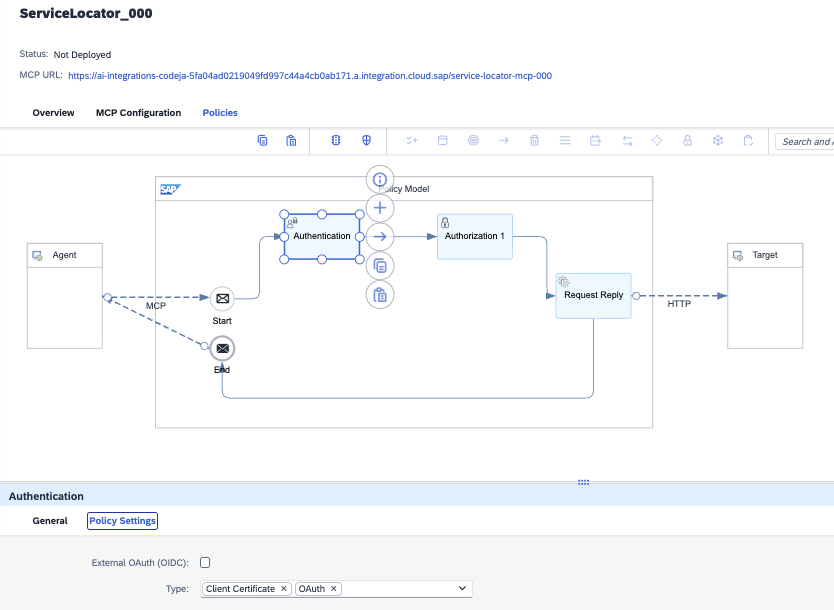
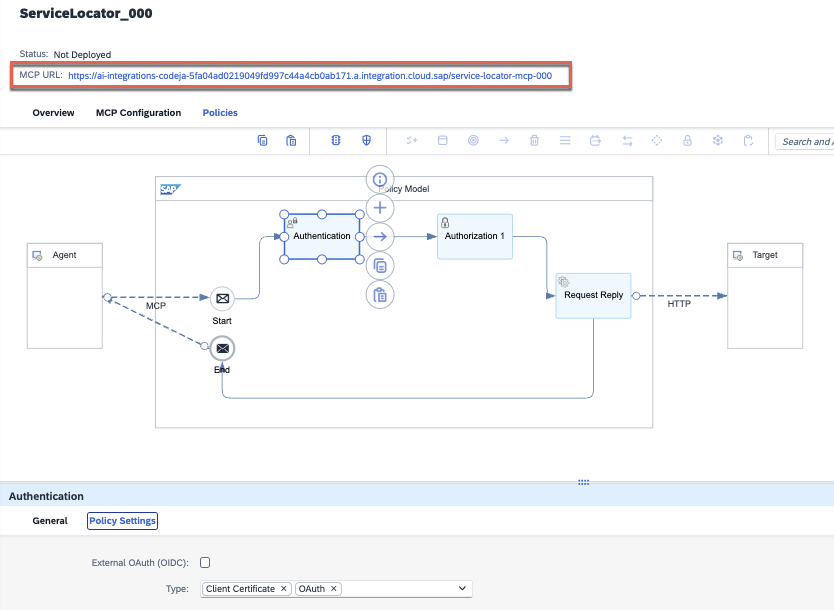
Incorporating Daniel feedback exercise 5

Changed region(s): [[0.0, 0.0934, 0.6859, 0.1557]]

diff --git a/exercises/05-expose-api-mcp-gateway/README.md b/exercises/05-expose-api-mcp-gateway/README.md
@@ -71,7 +71,9 @@ Once you have explored the API, you should be able to answer the following quest
 
 ## Create an MCP server in API Management
 
-Now that we are familiar with the Service Centre Locator API, lets proceed to creating an MCP server based on its OpenAPI specification.
+Now, we want to make available the Service Center Locator data to the agent that we will configure in the next exercise. This will be very helpful for our agent when combining the data from our customer requests with the location of our service centres. To enable this we will create an MCP server to securely expose our Service Center Locator API to agents.
+
+Lets proceed to creating an MCP server based on the Service Center Locator API OpenAPI specification.
 
 👉 Navigate to **Design** > **Integrations and APIs**, select the integration package created in exercise 2. Enter edit mode by choosing the **Edit** button located on the top right hand side of the screen. Then, in the **Artifacts** tab, choose **Add** > **MCP Server**.
 
@@ -150,19 +152,21 @@ Once deployed, the MCP artifact will be listed in the Manage Integration Content
 ![MCP deployed integration content](assets/mcp-deployed-integration-content.png)
 
 > [!IMPORTANT]
-> 👉 Copy the MCP server endpoint URL as we will need it later to test the MCP server.
+> 👉 Copy the MCP server endpoint URL as we will need it later to test the MCP server. If a URL is not displayed in the monitoring, you can also get it from the MCP artifact editor page (highlighted two screenshots above).
 
 The MCP server is now ready but we don't have credentials to be able to call it. Let's create an API product in the Developer Hub to expose the MCP server and provide credentials to call it.
 
 ## Developer Hub
 
-The Developer Hub is a web-based platform that serves as a centralized catalog for APIs, events, and MCP servers, empowering developers to discover, explore, and consume the integration capabilities offered by your organization. Acting as a unified and curated storefront, it consolidates APIs, events, and MCP servers in a single location, enabling application developers to discover, explore, and consume APIs and events, while enabling AI agents to discover and consume MCP servers.
+The Developer Hub is a web-based platform that **serves as a centralized catalog for APIs, events, and MCP servers, empowering developers to discover, explore, and consume the integration capabilities** offered by your organization. Acting as a unified and curated storefront, it consolidates APIs, events, and MCP servers in a single location, enabling application developers to discover, explore, and consume APIs and events, while enabling AI agents to discover and consume MCP servers.
 
 We will now go ahead and create an MCP product in the Developer Hub. After we will subscribe to the product and this will generate credentials that we can use to call the MCP server.
 
 ### Create an MCP product
 
-👉 In the Developer Hub, go to the **Admin Center** and select **Content**.
+👉 Access the Developer Hub, from the main UI of SAP Integration Suite as shown in the previous screenshot (highlighted in 🟣 purple), and go to the **Admin Center** > **Content**.
+
+![Admin Center - Content](assets/admin-center-content.png)
 
 👉 In the **Business Systems** tab, select the Integration Suite available, e.g. *ai-integrations-codejam-2tmfbzpb*. Then, in the **MCP Servers** tab, we will find all the MCP servers available in the Integration Suite. Select the MCP server we just created, e.g. *ServiceLocator_${credentialsObj.alturawebsite.user}*, and choose **Create Product**.
 
@@ -192,6 +196,8 @@ Once published, the product will be in the Developer Hub.
 ![Tools in ServiceLocator](assets/tools-in-servicelocator.png)
 
 ### Subscribe to the AlturaCoffee_${credentialsObj.alturawebsite.user} product
+
+Our product is listed in the Developer Hub but in order to get access to it, we need to subscribe to it first. A subscription will provide us the necessary credentials to authenticate and interact with the MCP server.
 
 👉 In the Developer Hub, navigate to the <dynamic>**AlturaCoffee_${credentialsObj.alturawebsite.user}**</dynamic> product and choose **Subscribe**. In the pop-up dialog, select the application to subscribe to the product and choose **Subscribe** > **Create New Subscription for Agent**.
 
@@ -237,12 +243,12 @@ In the **Secrets** tab set the values below:
 Lets explore the requests available:
 
 - *GET OAuth protected resource*: According to the MCP specification, the MCP server exposes authentication details under the `/.well-known/oauth-protected-resource` endpoint. Here we will find the authentication server we can communicate with to get an access token to call the MCP server.
-- *POST OAuth token*: This request allows us to get an access token from the authentication server. The access token is required to call the MCP server. This requests contains a script post response which will automatically set the `mcp_access_token` variable with the access token received from the authentication server.
+- *POST OAuth token*: This request allows us to get an access token from the authentication server. The access token is required to call the MCP server. This requests contains a script post response which will automatically set the `mcp_access_token` variable with the access token received from the authentication server. You'll notice that this will be in the variables section of Bruno, instead of secrets. The token is ephemeral and will expire after a certain period of time.
 - *POST MCP - List tools*: This request allows us to list all the tools available in the MCP server.
 - *POST MCP - get_ServiceCenters*: Retrieves all the service centers available in the Service Locator service.
 - *POST MCP - post_getNearestServiceCenter*: Find the nearest service centers for a given location. This request takes an address as input.
 
-👉 Execute each one of the requests listed below. Get familiar with the request body (if one is specified) and the response of each request.
+👉 Execute each one of the requests listed **above**. Get familiar with the request body (if one is specified) and the response of each request.
 
 Once completed, you should be able to answer the following questions:
 
